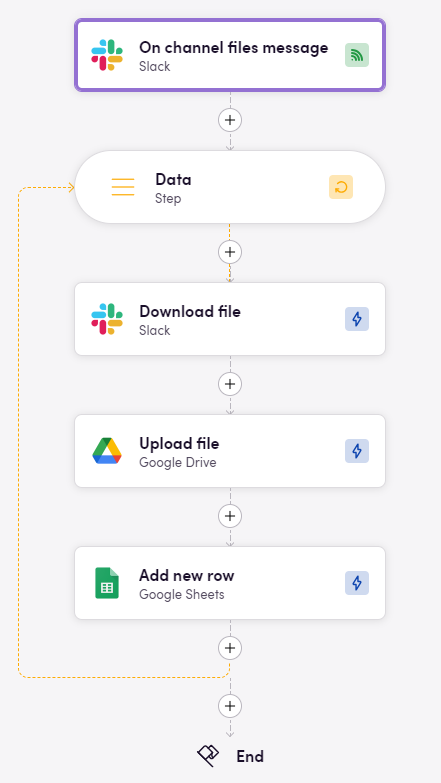
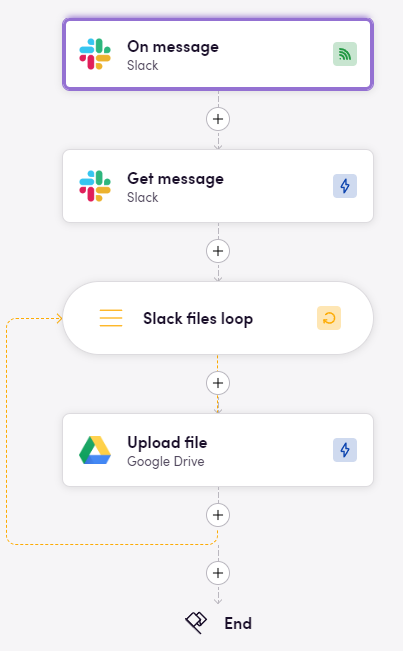
Updated docs

diff --git a/README.md b/README.md
@@ -36,7 +36,7 @@ The second way:
 
 ## Connecting
 
-1. Navigate to apps and search for Slack. If you cannot find Slack then click _Add App_ in the top right corner, select Slack and add the app to your Blackbird environment.
+1. Navigate to Apps, and identify the **Slack** app. You can use search to find it.
 2. Click _Add Connection_.
 3. Name your connection for future reference e.g. 'My organization'.
 4. Click _Authorize connection_.
@@ -84,7 +84,9 @@ The second way:
 
 ![Example](image/README/example.png)
 
-Here, whenever a new message with attachments is sent, we download the files, upload them to Google Drive and add new rows to Google Sheets table with information about the uploaded files.
+![Example-2](image/README/example-2.png)
+
+Here, whenever a new message with attachments is sent, we receive files by `Get message` action, iterate over them and send them to **Google Drive** using `Upload file` action.
 
 ## Missing features
 
